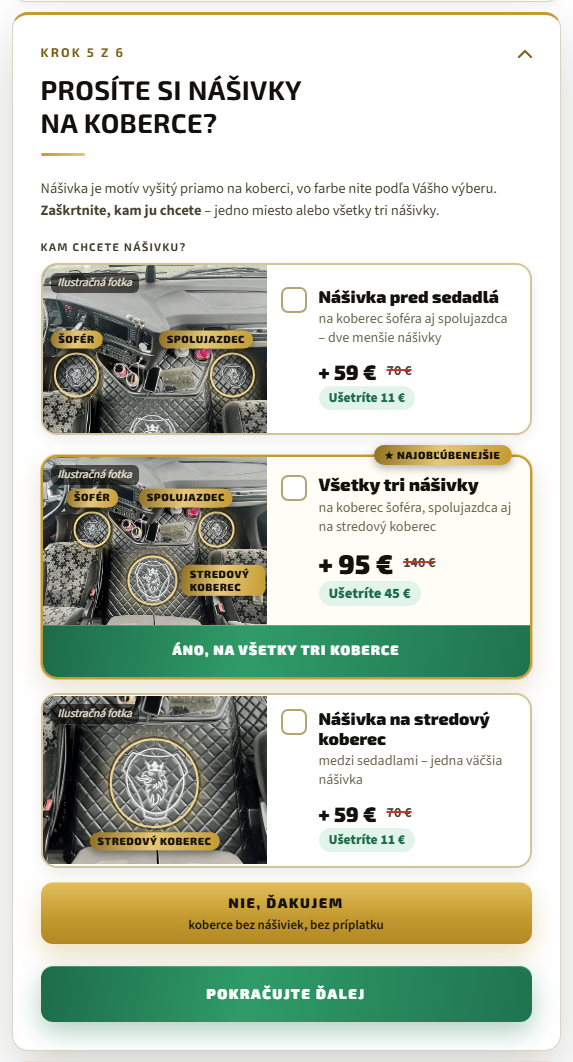
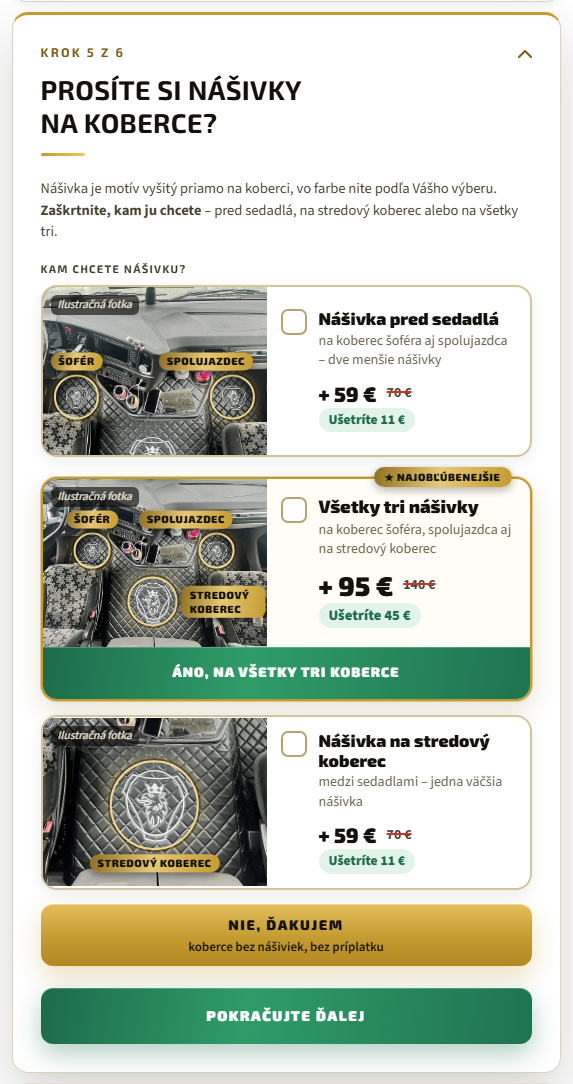
1V kamióny: opravy po dvojitej revízii návrhu C — pád pri „Vybrať inak“, výber nášiviek sa nevráti na prázdny, dlaždice motívov ako návrh C, fotka dverí JPEG
- tapZmenit: pri už zvolenom „Vybrať inak“ bez účinku; farba kobercov sa doplní len ak patrí k materiálu tapacíru
  (dvojfarebný mikrosemiš + „12“ zhodil zhrnutie -> React); chyba tapacíru aj pri cudzej farbe, zhrnutie bez pádu
- krok 5: ťuk na jediné zvolené miesto ani na zvolený balík nič nemení (S.nas sa nevráti na null -> selecty Shoptetu
  a cena ostanú zhodné); pás „✓ Vybraté“ na balíku je stav, nie tlačidlo
- dlaždice motívov: cover na béžovom #f0edda, max 380 px; mozaika „Iný motív“ béžová
- fotka dverí ako JPEG assets/img/1v/kamion-dvere-tapacir.jpg (212 kB namiesto PNG 2,7 MB); pulz krúžkov cez
  transform/opacity; fotka v dlaždici aria-hidden, „Vaša voľba“ aria-live
- texty: NBSP po jednopísmenových predložkách v kroku 6, „pred sedadlá“, lemovanie malým písmom uprostred vety,
  názvy nášiviek v súhrne podľa kroku 5, úvodná veta kroku 5 bez „jedno miesto“
- testy: cesta 17 +8 kontrol (na starej logike 8 ZLE), živý scenár kontroluje béžový podklad + cover; nové snímky
  c-krok5/6 (390, 1280); docs/kamiony-1v-plan.md §11.1
- vetva zosúladená s origin/main (rebase na eb13dcf)

Changed region(s): [[0.0593, 0.0311, 0.9494, 0.9633]]

diff --git a/assets/js/components/konfigurator1v/kamion/ui.js b/assets/js/components/konfigurator1v/kamion/ui.js
@@ -4,7 +4,7 @@
 // Všetky tlačidlá type="button", žiadne name (koreň je vo <form>). Ceny len z cena.js (živé ceny Shoptetu).
 // Do košíka nič nepíše: zmenu výberu a „Pridať do košíka“ odovzdá cez naZmenu / doKosika (index.js -> shoptet.js).
 import { TEXTY } from "./texty.js";
-import { MATERIALY, LEMOVANIE, NASIVKY, NITE, POLIA, PORADIE_POLI, ZNACKY, FOTKA_DVERI, FOTKA_KABINY_NASIVKY } from "./data.js";
+import { MATERIALY, LEMOVANIE, NASIVKY, NITE, POLIA, PORADIE_POLI, ZNACKY, FOTKA_DVERI_SUBOR, FOTKA_KABINY_NASIVKY } from "./data.js";
 import { OBRAZKY_1V } from "../ctx.js";
 import { vypocitajCenu, ponuka as ponukaCien, tapacirDostupny } from "./cena.js";
 import { novyStav, koberecNas as knS, najdiZnacku, najdiModel, naStavCeny } from "./stav.js";
@@ -12,6 +12,7 @@ import { novyStav, koberecNas as knS, najdiZnacku, najdiModel, naStavCeny } from
 const NB = " "; // nezalomiteľná medzera „423 €“ (ako artefakt a 1V)
 const P = "k1v-"; // predpona id prvkov (stránka Shoptetu má vlastné id)
 const FOTKA_KABINY = OBRAZKY_1V + FOTKA_KABINY_NASIVKY; // kabína zhora so všetkými tromi nášivkami (krok 5)
+const FOTKA_DVERI = OBRAZKY_1V + FOTKA_DVERI_SUBOR; // celý panel dverí s tapacírom 3:2 (krok 6)
 
 function esc(s) {
   return String(s == null ? "" : s).replace(/[&<>"']/g, (c) => ({ "&": "&amp;", "<": "&lt;", ">": "&gt;", '"': "&quot;", "'": "&#39;" })[c]);
@@ -157,7 +158,7 @@ export function vytvorUi(o) {
         if (S.tap === "nie") return null;
         if (!S.tapRovnaky) {
           if (!S.tapMat) return { pole: "tapMat", msg: c.material };
-          if (!S.tapFarba) return { pole: "tapFarba", msg: c.farba };
+          if (!S.tapFarba || !farba(S.tapMat, S.tapFarba)) return { pole: "tapFarba", msg: c.farba };
           if (!S.tapLem) return { pole: "tapLem", msg: c.lemovanie };
         }
         if (S.tapNas == null) return { pole: "tapNas", msg: c.nasivka };
@@ -276,7 +277,8 @@ export function vytvorUi(o) {
       }
       case "tapacir":
         if (S.tap === "nie") return tk.tapacir.zhrnutie_nie;
-        s = S.tapRovnaky ? tk.tapacir.zhrnutie_ano : fill(tk.tapacir.zhrnutie_ano_vlastne, { nazov: matT(S.tapMat).nazov, variant: matT(S.tapMat).variant, farba: mala(farba(S.tapMat, S.tapFarba).meno) });
+        f = S.tapRovnaky ? null : farba(S.tapMat, S.tapFarba);
+        s = S.tapRovnaky ? tk.tapacir.zhrnutie_ano : fill(tk.tapacir.zhrnutie_ano_vlastne, { nazov: matT(S.tapMat).nazov, variant: matT(S.tapMat).variant, farba: f ? mala(f.meno) : "" });
         return s + (S.tapNas ? U0.tap_s_nasivkou : "");
     }
     return "";
@@ -474,7 +476,7 @@ export function vytvorUi(o) {
   /** Výrez fotky kabíny cez CSS (--z zväčšenie, --fx/--fy stred výrezu) so zlatými krúžkami na nášivkách. */
   function fotkaKabiny(vyrez, miesta, alt, bokStred) {
     const t = T.kroky.nasivky;
-    return '<span class="kn-foto"><span class="kn-scena" style="' + vyrez + '"><img src="' + attr(FOTKA_KABINY) + '" alt="' + attr(alt) + '" loading="lazy" decoding="async">' +
+    return '<span class="kn-foto" aria-hidden="true"><span class="kn-scena" style="' + vyrez + '"><img src="' + attr(FOTKA_KABINY) + '" alt="' + attr(alt) + '" loading="lazy" decoding="async">' +
       miesta.map((k) => {
         const b = BOD[k];
         return '<span class="kn-bod' + b.tr + (k === "stred" && bokStred ? " kn-bod--bok" : "") + '" style="--x:' + b.x + ";--y:" + b.y + ";--d:" + b.d + '"><b>' + esc(t.miesta[k]) + "</b></span>";
@@ -563,7 +565,7 @@ export function vytvorUi(o) {
   }
   const popisTx = (x) => "<span>" + esc(x) + "</span>";
   const farbaTx = (f) => mala(f.meno) + " (" + f.kod + ")";
-  const lemTx = (l) => fill(U0.suhrn_lemovanie, { x: l.menoUi + " (" + l.kod + ")" });
+  const lemTx = (l) => fill(U0.suhrn_lemovanie, { x: l.menoUi.toLowerCase() + " (" + l.kod + ")" });
 
   function teloNasivky(posledny) {
     const t = T.kroky.nasivky, V = t.volby, pon = ponuka().nasivky;
@@ -578,7 +580,7 @@ export function vytvorUi(o) {
     const tB = dlazdica("boky", b, "", fotkaKabiny("--z:1.75;--fx:.537;--fy:.5", ["sofer", "spolujazdec"], V.boky.alt), cenaStrany("boky"), "", "");
     const tBal = dlazdica("boky+stred", bal, " kn-dv__b--bal", fotkaKabiny("--z:1.4;--fx:.537;--fy:.64", ["sofer", "spolujazdec", "stred"], V["boky+stred"].alt, true),
       cenaRamik(pon["boky+stred"], t.usetrite), '<span class="k-badge">' + esc(V["boky+stred"].stitok) + "</span>",
-      '<span class="kn-dv__cta">' + esc(bal ? V["boky+stred"].vybrate : V["boky+stred"].ano) + "</span>");
+      '<span class="kn-dv__cta' + (bal ? " kn-dv__cta--stav" : "") + '">' + esc(bal ? V["boky+stred"].vybrate : V["boky+stred"].ano) + "</span>");
     const tS = dlazdica("stred", s, "", fotkaKabiny("--z:2.5;--fx:.531;--fy:.8", ["stred"], V.stred.alt), cenaStrany("stred"), "", "");
     const tlNie = '<button type="button" class="k-btn-zlate kn-nie' + (nie ? " is-on" : S.nas ? " je-druha" : "") + '" data-a="nas" data-v="nechcem" data-f="nas:nechcem" aria-pressed="' + nie + '">' +
       (nie ? "✓ " : "") + esc(V.nechcem.text) + "<small>" + esc(V.nechcem.popis) + "</small></button>";
@@ -587,7 +589,7 @@ export function vytvorUi(o) {
     if (S.nas && !nie) {
       const vv = t.vasa_volba, x = vv[S.nas], pA = pon["boky+stred"];
       const tip = S.nas === "boky" ? vv.tip_boky : S.nas === "stred" ? vv.tip_stred : null;
-      vyber = '<div class="kn-vv">' + schemaKabiny({ s: b, p: b, c: s }, false) + '<div class="kn-vv__tx"><span class="kn-vv__l">' + esc(vv.label) + '</span><span class="kn-vv__nm">' + esc(x[0]) +
+      vyber = '<div class="kn-vv" aria-live="polite">' + schemaKabiny({ s: b, p: b, c: s }, false) + '<div class="kn-vv__tx"><span class="kn-vv__l">' + esc(vv.label) + '</span><span class="kn-vv__nm">' + esc(x[0]) +
         '</span><span class="kn-vv__po">' + esc(x[1]) + "</span>" + cenaRamik(pon[S.nas], t.usetrite) + "</div>" +
         (tip && pA && pA.suma && pA.povodna != null ? '<p class="kn-vv__tip">' + esc(tip[0]) + "<b>" + esc(fill(tip[1], { suma: eur(pA.suma) })) + "</b>" + esc(fill(tip[2], { povodna: eur(pA.povodna) })) + "</p>" : "") +
         "</div>";
@@ -709,7 +711,7 @@ export function vytvorUi(o) {
     html += riadok(ts.riadky.koberce.nazov, bezSpolujazdca ? ts.riadky.koberce.popis_bez_spolujazdca : ts.riadky.koberce.popis, "<span>" + eur(r.zaklad.suma) + "</span>");
     if (S.material) {
       const f = S.farba && farba(S.material, S.farba), l = S.lem && lem(S.lem);
-      html += riadok(matKratko(S.material) + (f ? " · " + mala(f.meno) + " (" + f.kod + ")" : ""), l ? fill(U0.suhrn_lemovanie, { x: l.menoUi + " (" + l.kod + ")" }) : "",
+      html += riadok(matKratko(S.material) + (f ? " · " + mala(f.meno) + " (" + f.kod + ")" : ""), l ? lemTx(l) : "",
         r.material.suma ? "<span>" + plus(r.material.suma) + "</span>" : "<em>" + esc(ts.v_cene) + "</em>");
     }
     if (S.nas === "nechcem") html += riadok(U0.suhrn_bez_nasiviek, "", "<span>0" + NB + "€</span>");
@@ -725,7 +727,7 @@ export function vytvorUi(o) {
     if (r.tapacir) {
       const tm = tapMaterial(), tf = tapFarbaKod() && tm && farba(tm, tapFarbaKod()), tl = tapLemKod() && lem(tapLemKod());
       html += riadok(ts.riadky.tapacir.nazov, S.tapRovnaky ? ts.riadky.tapacir.popis_rovnaky :
-        (tm ? matKratko(tm) : "") + (tf ? " · " + mala(tf.meno) + " (" + tf.kod + ")" : "") + (tl ? " · " + fill(U0.suhrn_lemovanie, { x: tl.menoUi + " (" + tl.kod + ")" }) : ""), cen(r.tapacir));
+        (tm ? matKratko(tm) : "") + (tf ? " · " + mala(tf.meno) + " (" + tf.kod + ")" : "") + (tl ? " · " + lemTx(tl) : ""), cen(r.tapacir));
     }
     if (r.nasivka_dvere) {
       const dn = S.tapNasRovnaka && koberecNas() ? koberecNas() : { motiv: S.tapNasMotiv, nit: S.tapNasNit };
@@ -934,18 +936,22 @@ export function vytvorUi(o) {
       case "mat": zmena(() => { if (S.material !== v) { S.material = v; if (S.farba && !farba(v, S.farba)) S.farba = null; } }); return;
       case "farba": zmena(() => { S.farba = v; }); return;
       case "lem": zmena(() => { S.lem = v; }); return;
-      case "nas":
+      case "nas": {
         /* Dlaždice miest sa zaškrtávajú (návrh C): „pred sedadlá“ a „stredový koberec“ prepínajú svoje miesto, „všetky
-           tri“ obe naraz; z prázdneho výberu = presne ten stav (boky / stred / boky+stred / nechcem). */
+           tri“ zapne obe; z prázdneho výberu = presne ten stav (boky / stred / boky+stred / nechcem). Výber sa nikdy
+           nevráti na prázdny (revízia 18. 10. 2026): ťuk na jediné zvolené miesto ani na zvolený balík nič nemení —
+           inak by selecty Shoptetu ostali na starej hodnote (sync s null nič nenastaví). Zmena = iné miesto alebo „Nie“. */
+        const b = jeBoky(), s = jeStred();
+        if ((v === "boky+stred" && b && s) || (v === "boky" && b && !s) || (v === "stred" && s && !b)) return;
         zmena(() => {
-          const b = jeBoky(), s = jeStred();
           if (v === "nechcem") { if (b) odoberBoky(); S.nas = "nechcem"; }
-          else if (v === "boky+stred") { if (b && s) { odoberBoky(); S.nas = null; } else { if (!b) pridajBoky(); S.nas = "boky+stred"; } }
+          else if (v === "boky+stred") { if (!b) pridajBoky(); S.nas = "boky+stred"; }
           else if (v === "boky") { if (b) { odoberBoky(); S.nas = naNas(false, s); } else { pridajBoky(); S.nas = naNas(true, s); } }
           else if (v === "stred") S.nas = naNas(b, !s);
         });
         if (v === "nechcem") pokracuj("nasivky");
         return;
+      }
       case "motiv": zmena(() => { if (m === "boky") S.nasBoky.motiv = v; else if (m === "stred") S.nasStred.motiv = v; else { S.tapNasMotiv = v; if (!koberecNas()) S.tapNasRovnaka = false; } }); return;
       case "nit": zmena(() => { if (m === "boky") S.nasBoky.nit = v; else if (m === "stred") S.nasStred.nit = v; else { S.tapNasNit = v; if (!koberecNas()) S.tapNasRovnaka = false; } }); return;
       case "viac": {
@@ -961,7 +967,16 @@ export function vytvorUi(o) {
         zmena(() => { S.tap = v; });
         if (v === "nie") pokracuj("tapacir");
         return;
-      case "tapZmenit": zmena(() => { S.tapRovnaky = false; S.tapMat = S.tapMat || S.material; S.tapFarba = S.tapFarba || S.farba; S.tapLem = S.tapLem || S.lem; }); return;
+      case "tapZmenit":
+        /* Už zvolené „Vybrať inak“ -> bez účinku. Vopred sa doplní materiál, farba a lemovanie kobercov, farba len ak patrí
+           k materiálu tapacíru (revízia 18. 10. 2026: inak „12“ pri dvojfarebnom mikrosemiši zhodilo zhrnutie -> React). */
+        if (!S.tapRovnaky) return;
+        zmena(() => {
+          S.tapRovnaky = false; S.tapMat = S.tapMat || S.material;
+          if (!S.tapFarba && S.tapMat && S.farba && farba(S.tapMat, S.farba)) S.tapFarba = S.farba;
+          S.tapLem = S.tapLem || S.lem;
+        });
+        return;
       case "tapRovnake": zmena(() => { S.tapRovnaky = true; }); return;
       case "tapMat": zmena(() => { if (S.tapMat !== v) { S.tapMat = v; if (S.tapFarba && !farba(v, S.tapFarba)) S.tapFarba = null; } }); return;
       case "tapFarba": zmena(() => { S.tapFarba = v; }); return;

diff --git a/assets/css/luxuryCar.css b/assets/css/luxuryCar.css
@@ -19005,11 +19005,11 @@ body.lcd-1v[data-lcd1v-typ="kamion"] #lcd1v-kamion .kn-foto--169 { aspect-ratio:
 body.lcd-1v[data-lcd1v-typ="kamion"] #lcd1v-kamion .kn-scena { position: absolute; left: 50%; top: 50%; display: block; width: calc(var(--z) * 100%); aspect-ratio: var(--ar, 4 / 3); transform: translate(calc(var(--fx) * -100%), calc(var(--fy) * -100%)); }
 body.lcd-1v[data-lcd1v-typ="kamion"] #lcd1v-kamion .kn-scena > img { display: block; width: 100%; max-width: none; height: 100%; margin: 0; object-fit: cover; }
 body.lcd-1v[data-lcd1v-typ="kamion"] #lcd1v-kamion .kn-bod { position: absolute; left: var(--x); top: var(--y); width: var(--d); aspect-ratio: 1 / 1; transform: translate(-50%, -50%); border: 2.5px solid #f0d68f; border-radius: 50%; box-shadow: 0 0 0 2px rgba(20, 15, 5, .45), 0 0 16px rgba(230, 200, 119, .6); pointer-events: none; }
-body.lcd-1v[data-lcd1v-typ="kamion"] #lcd1v-kamion .kn-bod::after { content: ""; position: absolute; inset: -3px; border-radius: 50%; }
+body.lcd-1v[data-lcd1v-typ="kamion"] #lcd1v-kamion .kn-bod::after { content: ""; position: absolute; inset: -3px; border: 3px solid rgba(240, 214, 143, .8); border-radius: 50%; opacity: 0; pointer-events: none; }
 @media (prefers-reduced-motion: no-preference) {
   body.lcd-1v[data-lcd1v-typ="kamion"] #lcd1v-kamion .kn-bod::after { animation: kn-pulz 2.2s ease-out infinite; }
 }
-@keyframes kn-pulz { 0% { box-shadow: 0 0 0 0 rgba(240, 214, 143, .75); } 70%, 100% { box-shadow: 0 0 0 14px rgba(240, 214, 143, 0); } }
+@keyframes kn-pulz { 0% { transform: scale(1); opacity: .9; } 70%, 100% { transform: scale(1.32); opacity: 0; } }
 body.lcd-1v[data-lcd1v-typ="kamion"] #lcd1v-kamion .kn-bod b { position: absolute; left: 50%; top: 100%; transform: translate(-50%, 6px); padding: 3px 8px 2px; border-radius: 999px; background: var(--k-zlato); color: #17130a; font: 800 10.5px/1.25 var(--k-disp); letter-spacing: .06em; text-transform: uppercase; white-space: nowrap; box-shadow: 0 3px 8px rgba(0, 0, 0, .45); }
 body.lcd-1v[data-lcd1v-typ="kamion"] #lcd1v-kamion .kn-bod--hore b { top: auto; bottom: 100%; transform: translate(-50%, -6px); }
 body.lcd-1v[data-lcd1v-typ="kamion"] #lcd1v-kamion .kn-bod--r b { left: auto; right: 0; transform: translate(0, 6px); }
@@ -19030,6 +19030,9 @@ body.lcd-1v[data-lcd1v-typ="kamion"] #lcd1v-kamion .kn-dv__b--bal .kn-dv__nm { f
 body.lcd-1v[data-lcd1v-typ="kamion"] #lcd1v-kamion .kn-dv__b--bal .kn-cena b { font-size: 27px; }
 body.lcd-1v[data-lcd1v-typ="kamion"] #lcd1v-kamion .kn-dv__b--bal .kn-cena i { font-size: 14.5px; }
 body.lcd-1v[data-lcd1v-typ="kamion"] #lcd1v-kamion .kn-dv__cta { display: flex; align-items: center; justify-content: center; min-height: 52px; margin: 0; padding: 10px 16px; border-radius: 0 0 14px 14px; background: var(--k-zelene); box-shadow: inset 0 1px 0 rgba(255, 255, 255, .22); color: #fff; font: 900 13.5px/1.25 var(--k-disp); letter-spacing: .09em; text-align: center; text-transform: uppercase; }
+/* zvolený balík: pás „✓ Vybraté – všetky tri koberce“ je stav, nie tlačidlo (ťuk nič nemení — ui.js akcia nas) */
+body.lcd-1v[data-lcd1v-typ="kamion"] #lcd1v-kamion .kn-dv__b--bal.is-on { cursor: default; }
+body.lcd-1v[data-lcd1v-typ="kamion"] #lcd1v-kamion .kn-dv__cta--stav { background: #e3f1e9; box-shadow: inset 0 1px 0 rgba(31, 122, 82, .22); color: var(--k-zvol, #1f7a52); font-weight: 800; }
 @media (min-width: 600px) {
   body.lcd-1v[data-lcd1v-typ="kamion"] #lcd1v-kamion .kn-dv__b { display: grid; grid-template-columns: 46% minmax(0, 1fr); align-items: center; }
   body.lcd-1v[data-lcd1v-typ="kamion"] #lcd1v-kamion .kn-dv__b > .kn-foto { aspect-ratio: 4 / 3; }
@@ -19092,7 +19095,12 @@ body.lcd-1v[data-lcd1v-typ="kamion"] #lcd1v-kamion .kn-rv__lem { position: absol
 body.lcd-1v[data-lcd1v-typ="kamion"] #lcd1v-kamion .kn-rv__mozaika { position: absolute; inset: 0; display: grid; grid-template-columns: 1fr 1fr; grid-template-rows: 1fr 1fr; gap: 2px; background: #fff; }
 body.lcd-1v[data-lcd1v-typ="kamion"] #lcd1v-kamion .kn-rv__mozaika i { display: block; background: center / cover no-repeat; }
 body.lcd-1v[data-lcd1v-typ="kamion"] #lcd1v-kamion .kn-rv__mozaika--motiv { grid-template-rows: 1fr; gap: 0; }
-body.lcd-1v[data-lcd1v-typ="kamion"] #lcd1v-kamion .kn-rv__mozaika--motiv i { margin: 8px 4px; background-color: #ededed; background-size: contain; }
+body.lcd-1v[data-lcd1v-typ="kamion"] #lcd1v-kamion .kn-rv__mozaika--motiv { background: #f0edda; }
+body.lcd-1v[data-lcd1v-typ="kamion"] #lcd1v-kamion .kn-rv__mozaika--motiv i { margin: 6px 4px; background-color: #f0edda; background-size: contain; }
+/* dlaždice motívov (krok 5 aj nášivka na dvere) ako návrh C: motív cez celú dlaždicu 3:2 (orez 16,7–83,3 % výšky necháva
+   H19 22–70 % aj H21 31–69 % celé), mriežka najviac 380 px, béžové pozadie ako PNG motívu */
+body.lcd-1v[data-lcd1v-typ="kamion"] #lcd1v-kamion .k-dlazdice--motiv { max-width: 380px; }
+body.lcd-1v[data-lcd1v-typ="kamion"] #lcd1v-kamion .k-dlazdice--motiv .k-dlazdica__img { padding: 0; object-fit: cover; background: #f0edda; }
 body.lcd-1v[data-lcd1v-typ="kamion"] #lcd1v-kamion .kn-rv__plus { position: absolute; left: 50%; top: 50%; display: flex; align-items: center; justify-content: center; width: 38px; height: 38px; transform: translate(-50%, -50%); border-radius: 50%; background: #fff; box-shadow: 0 3px 10px rgba(0, 0, 0, .35); color: var(--k-gold-tx); font: 800 22px/1 var(--k-disp); }
 body.lcd-1v[data-lcd1v-typ="kamion"] #lcd1v-kamion .kn-rv__cv { display: block; width: 100%; max-width: none; height: 100%; margin: 0; }
 body.lcd-1v[data-lcd1v-typ="kamion"] #lcd1v-kamion .kn-rv__r { position: absolute; top: 8px; right: 8px; z-index: 2; display: flex; align-items: center; justify-content: center; width: 26px; height: 26px; border: 2px solid #b5a473; border-radius: 50%; background: #fff; box-shadow: 0 2px 6px rgba(0, 0, 0, .25); }

diff --git a/assets/css/_lcd1v-kamiony.scss b/assets/css/_lcd1v-kamiony.scss
@@ -355,11 +355,11 @@ body.lcd-1v[data-lcd1v-typ="kamion"] #lcd1v-kamion .kn-foto--169 { aspect-ratio:
 body.lcd-1v[data-lcd1v-typ="kamion"] #lcd1v-kamion .kn-scena { position: absolute; left: 50%; top: 50%; display: block; width: calc(var(--z) * 100%); aspect-ratio: var(--ar, 4 / 3); transform: translate(calc(var(--fx) * -100%), calc(var(--fy) * -100%)); }
 body.lcd-1v[data-lcd1v-typ="kamion"] #lcd1v-kamion .kn-scena > img { display: block; width: 100%; max-width: none; height: 100%; margin: 0; object-fit: cover; }
 body.lcd-1v[data-lcd1v-typ="kamion"] #lcd1v-kamion .kn-bod { position: absolute; left: var(--x); top: var(--y); width: var(--d); aspect-ratio: 1 / 1; transform: translate(-50%, -50%); border: 2.5px solid #f0d68f; border-radius: 50%; box-shadow: 0 0 0 2px rgba(20, 15, 5, .45), 0 0 16px rgba(230, 200, 119, .6); pointer-events: none; }
-body.lcd-1v[data-lcd1v-typ="kamion"] #lcd1v-kamion .kn-bod::after { content: ""; position: absolute; inset: -3px; border-radius: 50%; }
+body.lcd-1v[data-lcd1v-typ="kamion"] #lcd1v-kamion .kn-bod::after { content: ""; position: absolute; inset: -3px; border: 3px solid rgba(240, 214, 143, .8); border-radius: 50%; opacity: 0; pointer-events: none; }
 @media (prefers-reduced-motion: no-preference) {
   body.lcd-1v[data-lcd1v-typ="kamion"] #lcd1v-kamion .kn-bod::after { animation: kn-pulz 2.2s ease-out infinite; }
 }
-@keyframes kn-pulz { 0% { box-shadow: 0 0 0 0 rgba(240, 214, 143, .75); } 70%, 100% { box-shadow: 0 0 0 14px rgba(240, 214, 143, 0); } }
+@keyframes kn-pulz { 0% { transform: scale(1); opacity: .9; } 70%, 100% { transform: scale(1.32); opacity: 0; } }
 body.lcd-1v[data-lcd1v-typ="kamion"] #lcd1v-kamion .kn-bod b { position: absolute; left: 50%; top: 100%; transform: translate(-50%, 6px); padding: 3px 8px 2px; border-radius: 999px; background: var(--k-zlato); color: #17130a; font: 800 10.5px/1.25 var(--k-disp); letter-spacing: .06em; text-transform: uppercase; white-space: nowrap; box-shadow: 0 3px 8px rgba(0, 0, 0, .45); }
 body.lcd-1v[data-lcd1v-typ="kamion"] #lcd1v-kamion .kn-bod--hore b { top: auto; bottom: 100%; transform: translate(-50%, -6px); }
 body.lcd-1v[data-lcd1v-typ="kamion"] #lcd1v-kamion .kn-bod--r b { left: auto; right: 0; transform: translate(0, 6px); }
@@ -380,6 +380,9 @@ body.lcd-1v[data-lcd1v-typ="kamion"] #lcd1v-kamion .kn-dv__b--bal .kn-dv__nm { f
 body.lcd-1v[data-lcd1v-typ="kamion"] #lcd1v-kamion .kn-dv__b--bal .kn-cena b { font-size: 27px; }
 body.lcd-1v[data-lcd1v-typ="kamion"] #lcd1v-kamion .kn-dv__b--bal .kn-cena i { font-size: 14.5px; }
 body.lcd-1v[data-lcd1v-typ="kamion"] #lcd1v-kamion .kn-dv__cta { display: flex; align-items: center; justify-content: center; min-height: 52px; margin: 0; padding: 10px 16px; border-radius: 0 0 14px 14px; background: var(--k-zelene); box-shadow: inset 0 1px 0 rgba(255, 255, 255, .22); color: #fff; font: 900 13.5px/1.25 var(--k-disp); letter-spacing: .09em; text-align: center; text-transform: uppercase; }
+/* zvolený balík: pás „✓ Vybraté – všetky tri koberce“ je stav, nie tlačidlo (ťuk nič nemení — ui.js akcia nas) */
+body.lcd-1v[data-lcd1v-typ="kamion"] #lcd1v-kamion .kn-dv__b--bal.is-on { cursor: default; }
+body.lcd-1v[data-lcd1v-typ="kamion"] #lcd1v-kamion .kn-dv__cta--stav { background: #e3f1e9; box-shadow: inset 0 1px 0 rgba(31, 122, 82, .22); color: var(--k-zvol, #1f7a52); font-weight: 800; }
 @media (min-width: 600px) {
   body.lcd-1v[data-lcd1v-typ="kamion"] #lcd1v-kamion .kn-dv__b { display: grid; grid-template-columns: 46% minmax(0, 1fr); align-items: center; }
   body.lcd-1v[data-lcd1v-typ="kamion"] #lcd1v-kamion .kn-dv__b > .kn-foto { aspect-ratio: 4 / 3; }
@@ -442,7 +445,12 @@ body.lcd-1v[data-lcd1v-typ="kamion"] #lcd1v-kamion .kn-rv__lem { position: absol
 body.lcd-1v[data-lcd1v-typ="kamion"] #lcd1v-kamion .kn-rv__mozaika { position: absolute; inset: 0; display: grid; grid-template-columns: 1fr 1fr; grid-template-rows: 1fr 1fr; gap: 2px; background: #fff; }
 body.lcd-1v[data-lcd1v-typ="kamion"] #lcd1v-kamion .kn-rv__mozaika i { display: block; background: center / cover no-repeat; }
 body.lcd-1v[data-lcd1v-typ="kamion"] #lcd1v-kamion .kn-rv__mozaika--motiv { grid-template-rows: 1fr; gap: 0; }
-body.lcd-1v[data-lcd1v-typ="kamion"] #lcd1v-kamion .kn-rv__mozaika--motiv i { margin: 8px 4px; background-color: #ededed; background-size: contain; }
+body.lcd-1v[data-lcd1v-typ="kamion"] #lcd1v-kamion .kn-rv__mozaika--motiv { background: #f0edda; }
+body.lcd-1v[data-lcd1v-typ="kamion"] #lcd1v-kamion .kn-rv__mozaika--motiv i { margin: 6px 4px; background-color: #f0edda; background-size: contain; }
+/* dlaždice motívov (krok 5 aj nášivka na dvere) ako návrh C: motív cez celú dlaždicu 3:2 (orez 16,7–83,3 % výšky necháva
+   H19 22–70 % aj H21 31–69 % celé), mriežka najviac 380 px, béžové pozadie ako PNG motívu */
+body.lcd-1v[data-lcd1v-typ="kamion"] #lcd1v-kamion .k-dlazdice--motiv { max-width: 380px; }
+body.lcd-1v[data-lcd1v-typ="kamion"] #lcd1v-kamion .k-dlazdice--motiv .k-dlazdica__img { padding: 0; object-fit: cover; background: #f0edda; }
 body.lcd-1v[data-lcd1v-typ="kamion"] #lcd1v-kamion .kn-rv__plus { position: absolute; left: 50%; top: 50%; display: flex; align-items: center; justify-content: center; width: 38px; height: 38px; transform: translate(-50%, -50%); border-radius: 50%; background: #fff; box-shadow: 0 3px 10px rgba(0, 0, 0, .35); color: var(--k-gold-tx); font: 800 22px/1 var(--k-disp); }
 body.lcd-1v[data-lcd1v-typ="kamion"] #lcd1v-kamion .kn-rv__cv { display: block; width: 100%; max-width: none; height: 100%; margin: 0; }
 body.lcd-1v[data-lcd1v-typ="kamion"] #lcd1v-kamion .kn-rv__r { position: absolute; top: 8px; right: 8px; z-index: 2; display: flex; align-items: center; justify-content: center; width: 26px; height: 26px; border: 2px solid #b5a473; border-radius: 50%; background: #fff; box-shadow: 0 2px 6px rgba(0, 0, 0, .25); }

diff --git a/assets/js/components/konfigurator1v/kamion/texty.js b/assets/js/components/konfigurator1v/kamion/texty.js
@@ -428,7 +428,7 @@ export const TEXTY = {
    "pomocna_veta": [
     "Nášivka je motív vyšitý priamo na koberci, vo farbe nite podľa Vášho výberu. ",
     "Zaškrtnite, kam ju chcete",
-    " – jedno miesto alebo všetky tri nášivky."
+    " – pred sedadlá, na stredový koberec alebo na všetky tri."
    ],
    "kam": "Kam chcete nášivku?",
    "ilustracna": "Ilustračná fotka",
@@ -579,7 +579,7 @@ export const TEXTY = {
    },
    "kam_pride": {
     "boky+stred": "na všetky tri koberce – pred sedadlá šoféra a spolujazdca aj na stredový koberec.",
-    "boky": "na koberec šoféra aj spolujazdca, pred sedadlo.",
+    "boky": "na koberec šoféra aj spolujazdca, pred sedadlá.",
     "stred": "na stredový koberec medzi sedadlami."
    },
    "podklad": "farba Vašich kobercov – {x}.",
@@ -602,11 +602,11 @@ export const TEXTY = {
    "kicker": "Krok 6 z 6",
    "nazov": "Tapacír dverí",
    "otazka": "Prosíte si aj tapacír dverí?",
-   "vysvetlivka": "Tapacír je výplň v strede panelu dverí – na fotke béžová s červeným lemovaním. Ladí s Vašimi kobercami.",
+   "vysvetlivka": "Tapacír je výplň v\u00a0strede panelu dverí – na fotke béžová s\u00a0červeným lemovaním. Ladí s\u00a0Vašimi kobercami.",
    "foto_alt": "Celý panel dverí kamióna s tapacírom a nášivkou v strede, ilustračná fotka",
    "foto_stitok": "Tapacír dverí",
    "ilustracna": "Ilustračná fotka",
-   "benefit": "Ak nič nezmeníte, bude v rovnakom materiáli, farbe a lemovaní ako koberce. Môžete si ich však vybrať aj inak.",
+   "benefit": "Ak nič nezmeníte, bude v\u00a0rovnakom materiáli, farbe a\u00a0lemovaní ako koberce. Môžete si ich však vybrať aj inak.",
    "volby": {
     "ano": {
      "text": "Áno, chcem aj tapacír dverí",
@@ -647,7 +647,7 @@ export const TEXTY = {
     "s_tapacirom": "S tapacírom len",
     "samostatne": "Samostatne",
     "usetrite": "Ušetríte {x}",
-    "ano": "Áno, s nášivkou",
+    "ano": "Áno, s\u00a0nášivkou",
     "nie": "Nie, ďakujem",
     "bez_priplatku": "bez príplatku",
     "zmena_info": "Na kobercoch už nášivka nie je. Prosím, vyberte, či chcete nášivku na tapacír dverí.",
@@ -703,8 +703,8 @@ export const TEXTY = {
     "popis": "lemovanie {lemovanie}"
    },
    "nasivky": {
-    "nazov_vsetky": "Nášivky na 3 koberce",
-    "nazov_boky": "Nášivky na koberce šoféra a spolujazdca",
+    "nazov_vsetky": "Nášivky na všetky tri koberce",
+    "nazov_boky": "Nášivky pred sedadlá (šofér a spolujazdec)",
     "nazov_stred": "Nášivka na stredový koberec",
     "popis": "{motiv} · niť {nit}",
     "popis_iny_stred": "stred: {motiv_stred} · niť {nit_stred}"

diff --git a/assets/js/components/konfigurator1v/kamion/data.js b/assets/js/components/konfigurator1v/kamion/data.js
@@ -14,8 +14,12 @@ const img = (f) => IMG_BASE + f;
 /** Prečiarknuté „samostatne“ ceny (EUR) — v Shoptete nie sú, natvrdo v konfigurator.gen.jsx FALLBACK_PRICES_EUR. */
 export const PRECIARKNUTE_EUR = { nasivky_balik: 140, nasivky_sofer_spolujazdec: 70, nasivky_len_stred: 70, tapacir: 179, nasivka_na_dverach: 89 };
 
-/** Fotka tapacíru dverí (React krok 5/A, IMG_BASE) — celý panel dverí 3:2, nášivka v strede výplne (~43 % / 45 %). */
-export const FOTKA_DVERI = img("t894b009d54832cbd.png");
+/**
+ * Fotka tapacíru dverí — celý panel dverí 3:2, nášivka v strede výplne (~43 % / 45 %). Tá istá fotka ako React krok 5/A
+ * (IMG_BASE t894b009d54832cbd.png, PNG 2,7 MB), uložená ako JPEG 1536 × 1024 (~210 kB) v assets/img/1v/ (adresa =
+ * OBRAZKY_1V z ../ctx.js + tento názov; ui.js). Revízia 18. 10. 2026: PNG bol na telefóne cez dáta príliš ťažký.
+ */
+export const FOTKA_DVERI_SUBOR = "kamion-dvere-tapacir.jpg";
 
 /**
  * Fotka kabíny zhora so všetkými tremi nášivkami (krok 5, návrh C schválený 18. 10. 2026) — súbor v assets/img/1v/

diff --git a/docs/kamiony-1v-plan.md b/docs/kamiony-1v-plan.md
@@ -428,3 +428,19 @@ Michal vybral návrh C (`scratchpad/kamiony-nasivky/navrh-c.html`, 5 pripomienok
 | Zvolené = zelené (celé kamióny) | blok na konci `_lcd1v-kamiony.scss` (RUČNE): rám #1f7a52 3 px (rám + box-shadow), fajka so zeleným prechodom a bielou fajkou — segment Kamión/Dodávka, materiál, farba, lemovanie, motív, niť, dlaždice nášiviek, rovnaké/inak, Áno/Nie. Zlatá ostáva na štítkoch (★ Najobľúbenejšie, Odporúčame), ponukách v rámiku a „Nie, ďakujem“. |
 
 Testy po zmene: `kamion:test` (cena 68, ceny vs gen.jsx 1 320 kombinácií NÁLEZ 0, košík **274 OK** — nová cesta 17 = kontroly návrhu C, brána 42) · `truck:test` OK · `test-konfigurator-1v --novy --produkt 640 --sirka 1280,390` 10/10 (POST 423 € a 258 € ako predtým; nové kontroly: zelené zvolené, 3 fotkové dlaždice s načítanou fotkou, plátno ≥ 2× CSS šírky cez celú kartu, celá fotka dverí, dve voľby tapacíru) · `--produkt all --krok brana,nulova-zmena --sirka 1280` bez flagu 30/30 · POST do košíka (kamion-platne 423 €, kamion-dodavka 258 €; 1280 aj 390) bajt po bajte = telá revízie v `post-porovnanie.json` → `revizia_2026_10_18` (= React) · `test-1v-obsah --produkt 640` 10/10. Snímky `docs/kamiony-snimky/c-krok5-*.png`, `c-krok6-*.png` (390, 1280; `node tools/snimky-kamion-kroky.mjs docs/kamiony-snimky`).
+
+### 11.1 Opravy po dvojitej revízii (18. 10. 2026, lokálne, bez pushu)
+
+Vetva zosúladená s `origin/main` (`git rebase origin/main` na `eb13dcf` — box-kresba, „zvolené = zelené“ ostatných 1V; bez konfliktu, `vloz-lcd-css.py --check` OK).
+
+| Nález | Oprava |
+|---|---|
+| Vysoká: „Vybrať inak“ → dvojfarebný mikrosemiš → znova „Vybrať inak“ = pád zhrnutia (farba 12 k materiálu nepatrí) → React | `tapZmenit` pri už zvolenom „Vybrať inak“ nič nerobí; farba kobercov sa doplní len ak patrí k materiálu tapacíru; `chyba("tapacir")` vráti chybu farby aj pri farbe z iného materiálu; `zhrnutie` bez pádu. |
+| Stredná: odznačenie dlaždice → `S.nas = null` → selecty Shoptetu na starej hodnote, `console.error` ceny | Výber sa nikdy nevráti na prázdny: ťuk na jediné zvolené miesto ani na zvolený balík nič nemení. Zmena = iné miesto (balík ↔ jedna strana) alebo „Nie, ďakujem“. `shoptet.js`/`index.js` bez zmeny. |
+| Stredná: zelený pás „✓ Vybraté“ na balíku odznačoval všetko | pás je po výbere stav (`.kn-dv__cta--stav`, svetlozelený, bez účinku). |
+| Stredná (vzhľad): dlaždice motívov slabšie než návrh C | motív cez celú dlaždicu (`cover`), béžový podklad `#f0edda`, mriežka max 380 px; mozaika „Iný motív“ béžová. |
+| Nízke | fotka dverí ako JPEG `assets/img/1v/kamion-dvere-tapacir.jpg` (1536 × 1024, 212 kB namiesto PNG 2,7 MB); pulz krúžkov cez `transform`/`opacity`; fotka v dlaždici `aria-hidden` (meno = názov + cena), „Vaša voľba“ `aria-live`; NBSP za jednopísmenovými predložkami v texte kroku 6 („Áno, s nášivkou“); „pred sedadlá“; lemovanie uprostred vety malým písmom (krok 6 aj súhrn); súhrn „Nášivky na všetky tri koberce“ / „Nášivky pred sedadlá (šofér a spolujazdec)“; úvodná veta kroku 5 „… – pred sedadlá, na stredový koberec alebo na všetky tri.“ |
+
+Testy: `kamion:test` (cena 68, NÁLEZ 0, košík **282 OK** — +8 kontrol v ceste 17; na starej logike 8 ZLE, brána 42) · `truck:test` OK · `test-konfigurator-1v --novy --produkt 640 --sirka 1280,390` 10/10 (kontrola dlaždice motívu = béžový podklad + cover) · POST kamion-platne 423 € a kamion-dodavka 258 € na 1280 aj 390 bajt po bajte = `post-porovnanie.json` → `revizia_2026_10_18` · bez flagu `--produkt all --krok brana,nulova-zmena` 30/30 · `test-1v-obsah --produkt 640` 10/10. Snímky `docs/kamiony-snimky/c-krok5-*`, `c-krok6-*` (390, 1280) nové.
+
+Pred vydaním na web: push nahrá aj `kamion-nasivky-kabina.jpg` a `kamion-dvere-tapacir.jpg` do `…/assets/img/1v/` — overiť HTTP 200 oboch ešte pred prepnutím sha v SK admine.
